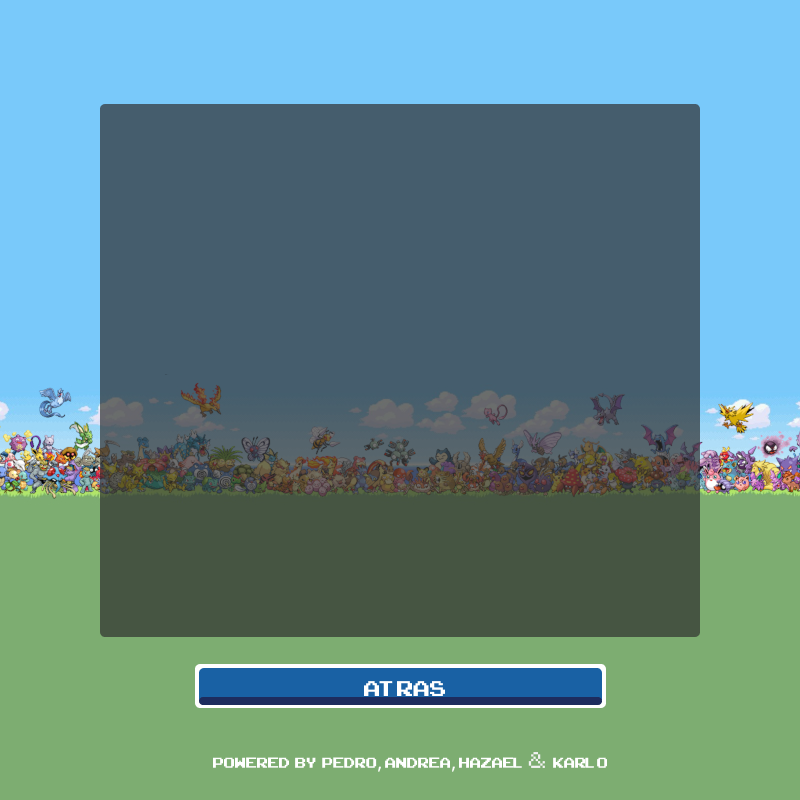
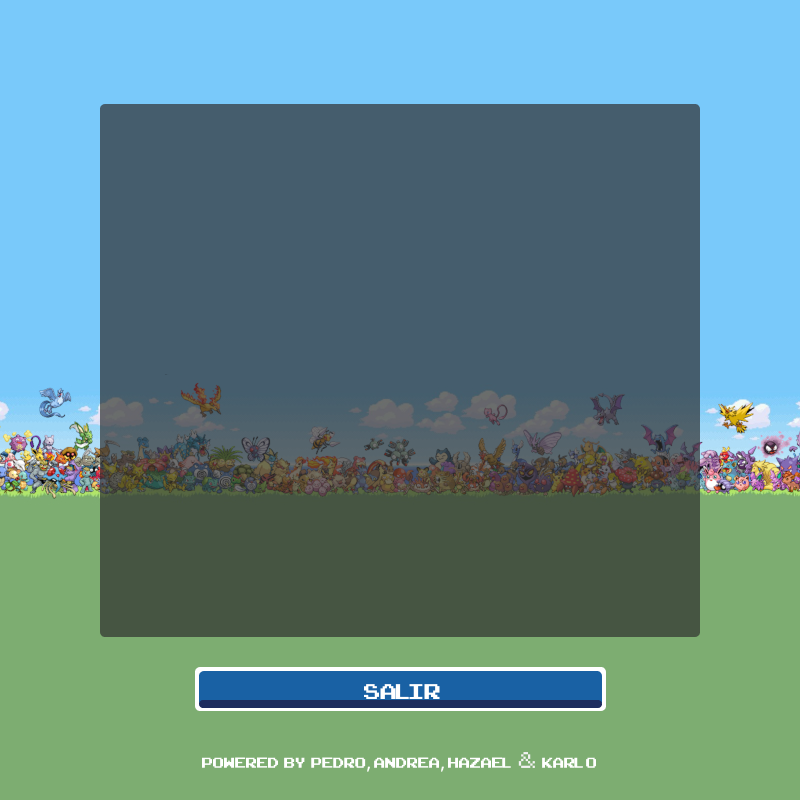
Correccion

Changed region(s): [[0.25, 0.8125, 0.75, 0.9062], [0.25, 0.9375, 0.75, 0.9688]]

diff --git a/src/SplashMenu.java b/src/SplashMenu.java
@@ -89,7 +89,7 @@ public class SplashMenu extends JDialog {
             atras.setContentAreaFilled(false);
             atras.setBorderPainted(true);
             atras.setFont(new Font("Tahoma", Font.PLAIN, 18));
-            atras.setBounds(199, 668, 403, 36);
+            atras.setBounds(199, 671, 403, 36);
 
             atras.addActionListener(new ActionListener() {
                 public void actionPerformed(ActionEvent e) {
@@ -133,15 +133,15 @@ public class SplashMenu extends JDialog {
 
                     BotonInvisible play = new BotonInvisible(" ");
                     play.setFont(new Font("Tahoma", Font.PLAIN, 18));
-                    play.setBounds(208, 519, 403, 36);
+                    play.setBounds(199, 547, 403, 36);
 
                     BotonInvisible instrucciones = new BotonInvisible(" ");
                     instrucciones.setFont(new Font("Tahoma", Font.PLAIN, 18));
-                    instrucciones.setBounds(208, 605, 403, 36);
+                    instrucciones.setBounds(199, 609, 403, 36);
 
                     BotonInvisible salir = new BotonInvisible(" ");
                     salir.setFont(new Font("Tahoma", Font.PLAIN, 18));
-                    salir.setBounds(208, 684, 403, 36);
+                    salir.setBounds(199, 671, 403, 36);
 
                     getContentPane().removeAll();
                     getContentPane().add(play);

diff --git a/src/Juego.java b/src/Juego.java
@@ -23,12 +23,19 @@ public class Juego extends JFrame implements Runnable {
     public Juego() {
         setDefaultCloseOperation(JFrame.EXIT_ON_CLOSE);
         setBounds(100, 100, 800, 800);
+        setResizable(false);
+        setLayout(null);
+        setLocationRelativeTo(null);
+
         setTitle("Pokemon Red");
         fondo = new JPanel();
         fondo.setBackground(new Color(45, 45, 45));
         fondo.setBorder(new EmptyBorder(5, 5, 5, 5));
 
         setContentPane(fondo);
+
+        repaint();
+        revalidate();
     }
 
     public synchronized void iniciar(){

diff --git a/src/Main.java b/src/Main.java
@@ -1,6 +1,6 @@
 public class Main {
     public static void main(String[] args) {
-        
+
         SplashMenu splash = new SplashMenu();
         splash.setVisible(true);
     }
